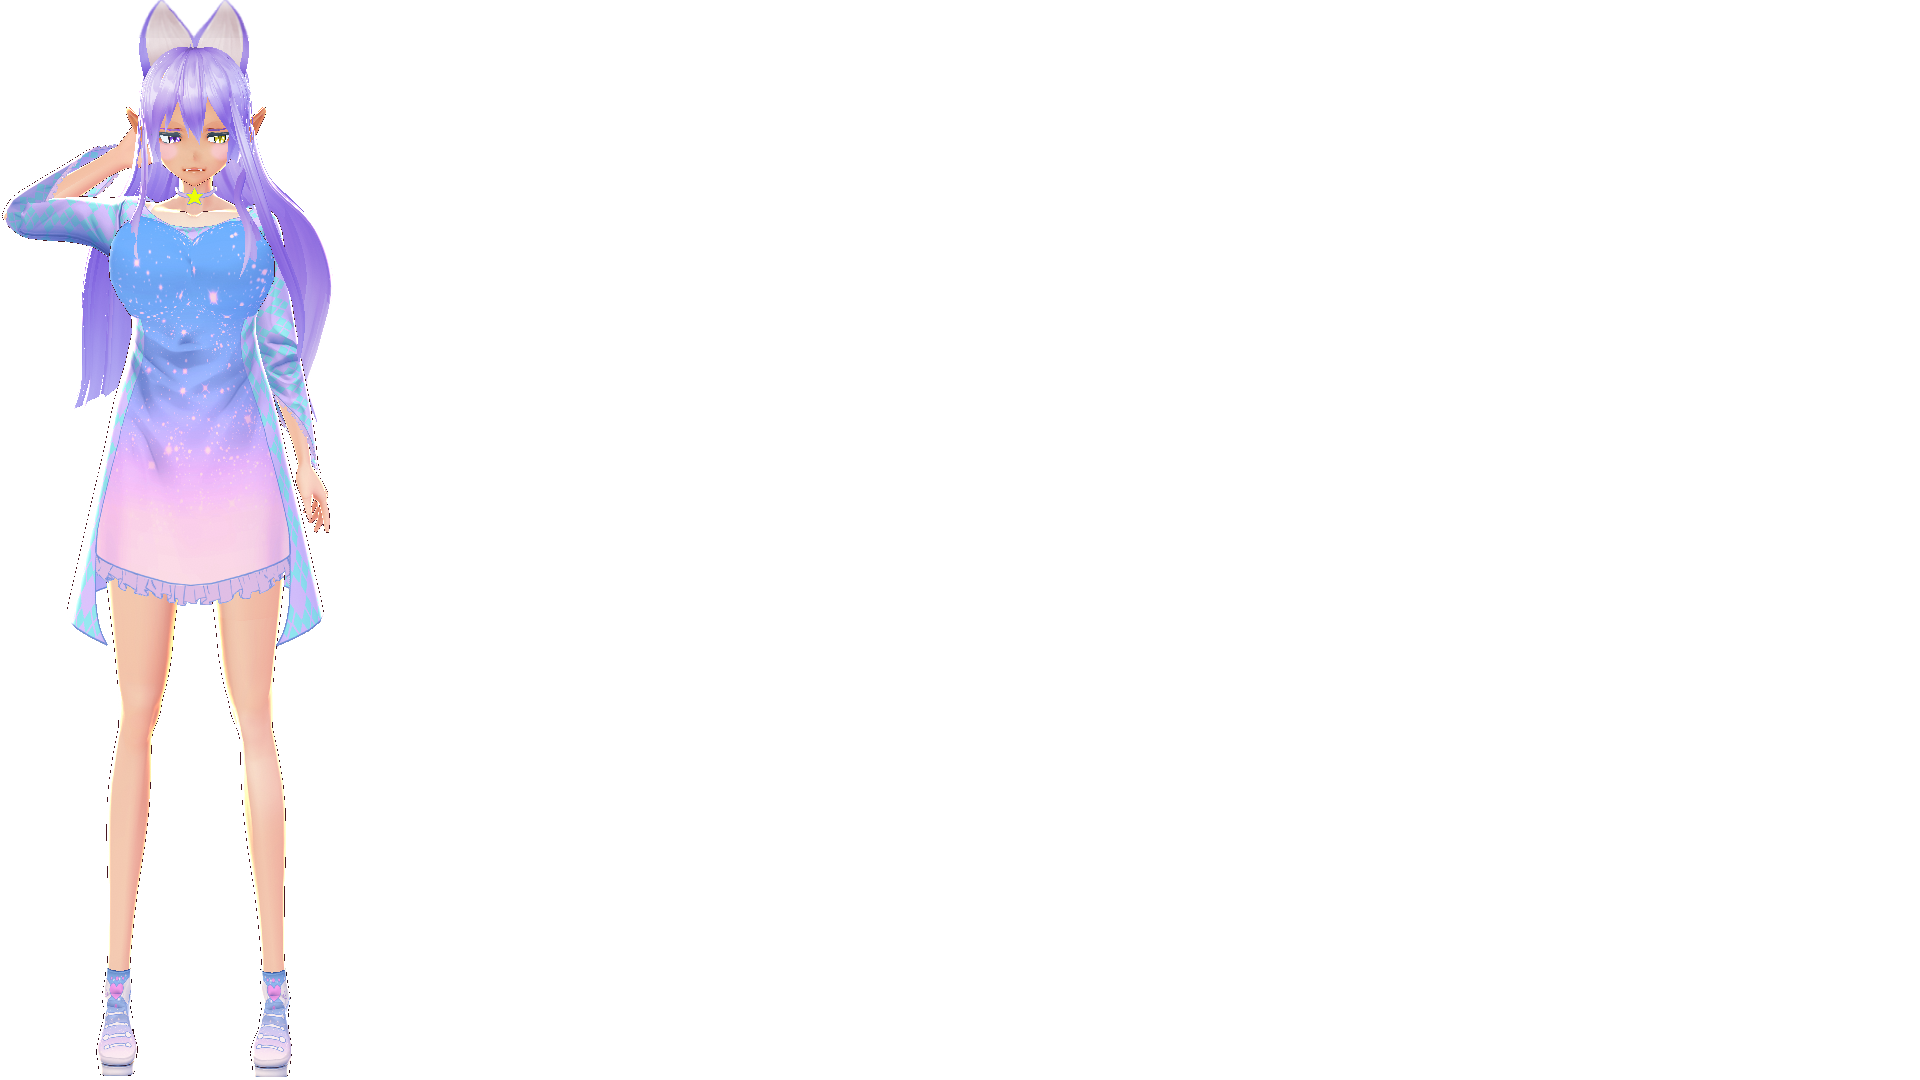
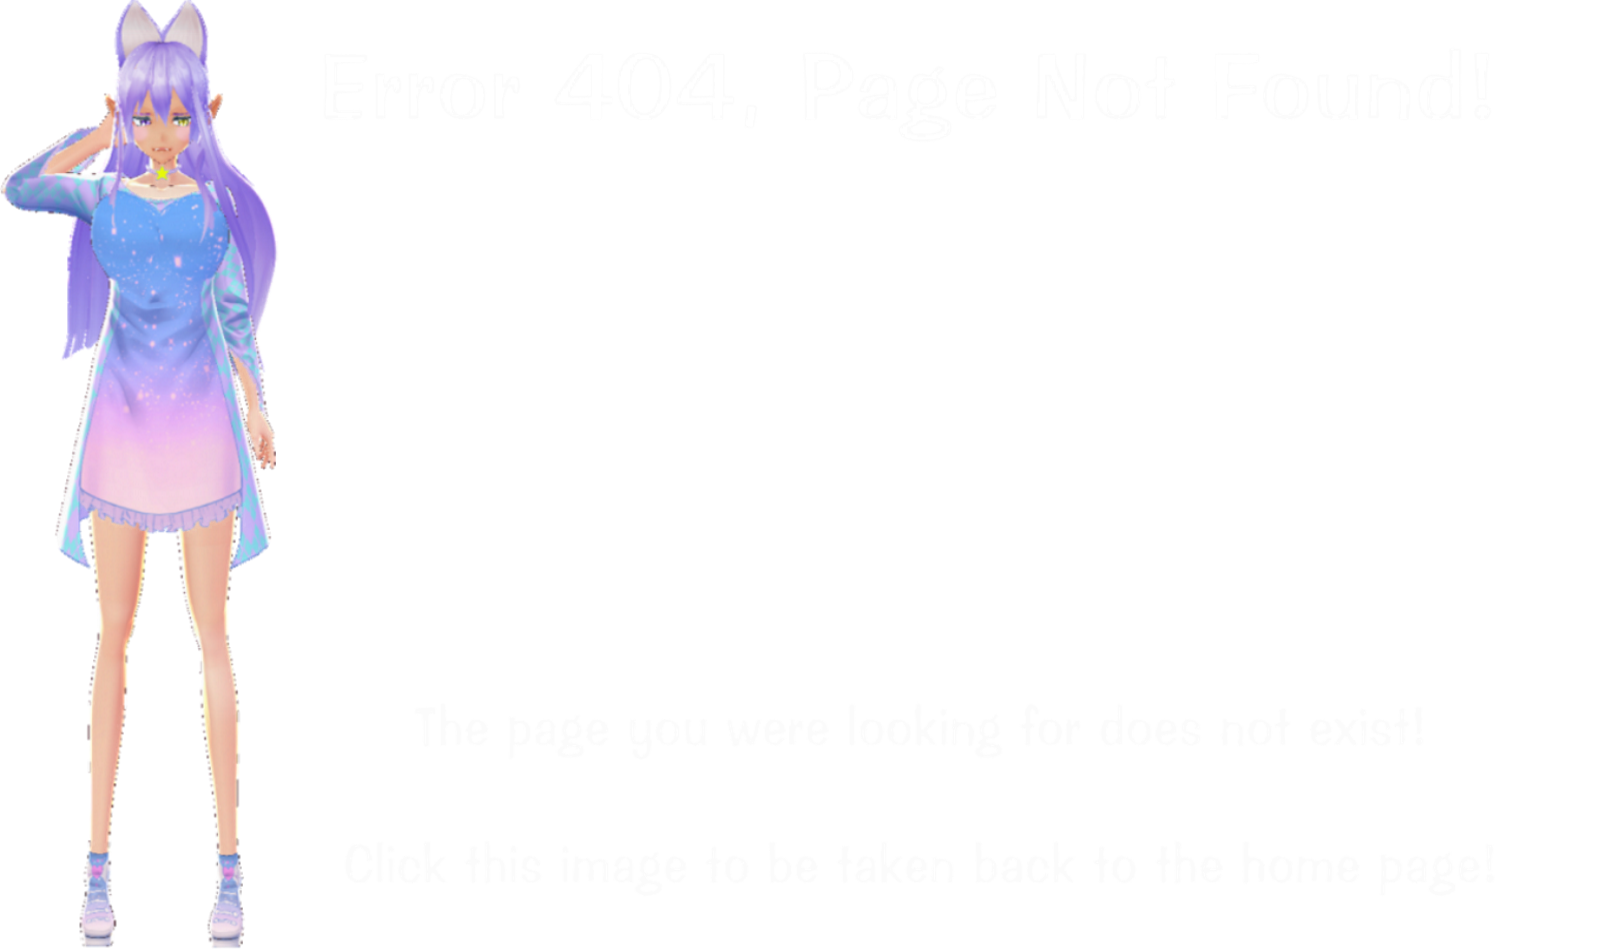
Disabled Zoom for 404 and Grew Error.png
I disabled zoom for 404.html and I also expanded the error.png file to better fit the screen.

diff --git a/404.html b/404.html
@@ -9,7 +9,7 @@
 		<link rel="icon" sizes="32x32" href="assets/img/ico/32.ico">
 		<link rel="stylesheet" href="assets/css/styles/stylesheet.css">
 	</head>
-	<body>
+	<body scroll="no" style="overflow: hidden">
 		<main>
 			<section class="cases-links">
 			<center><a href="/"><img src="assets/img/Error.png" alt="Error 404"><center><h2 class="error-404"></h2></a></center>
